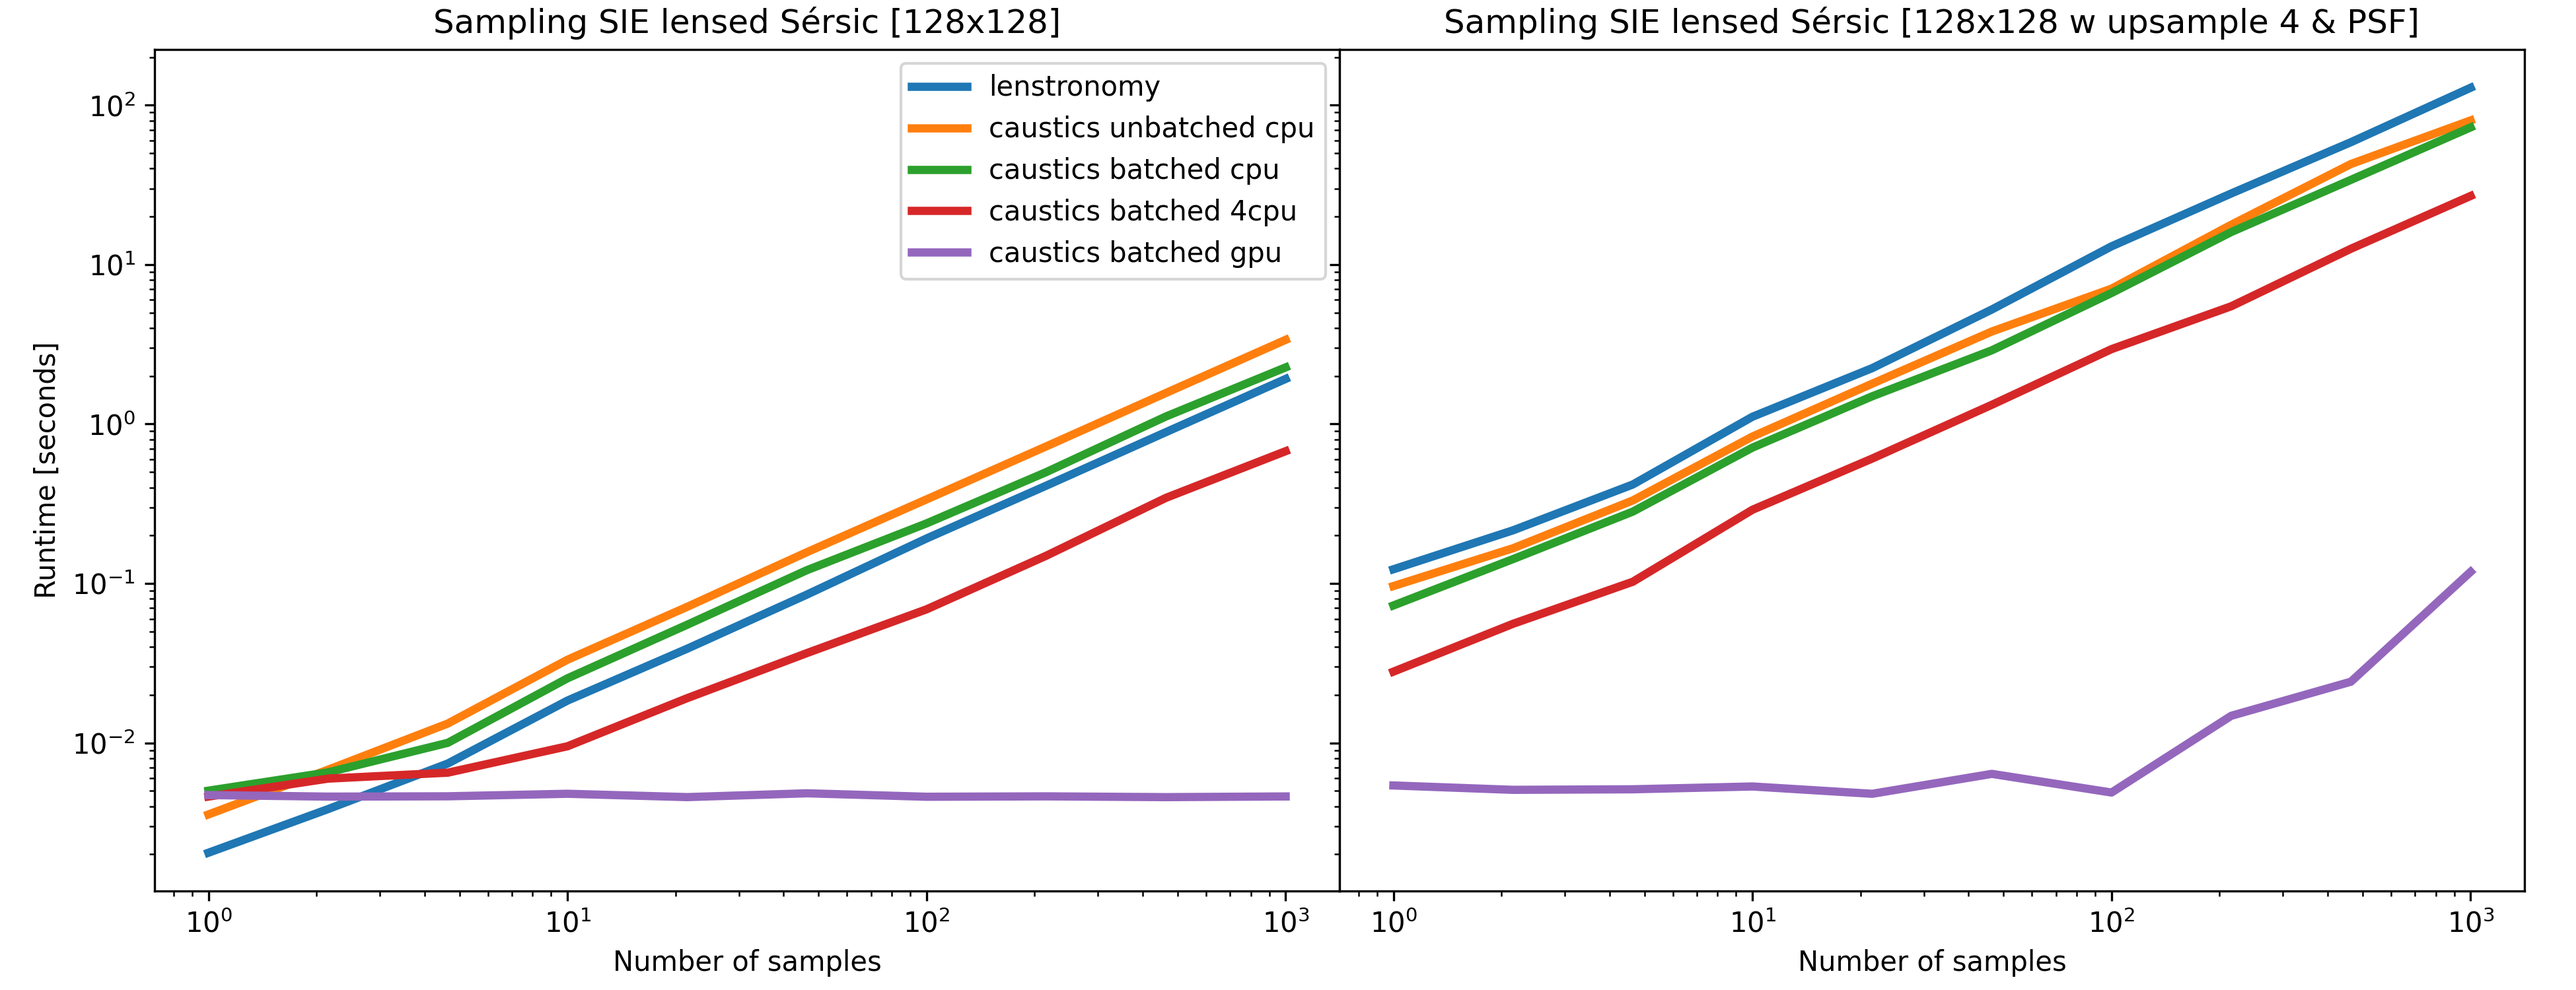
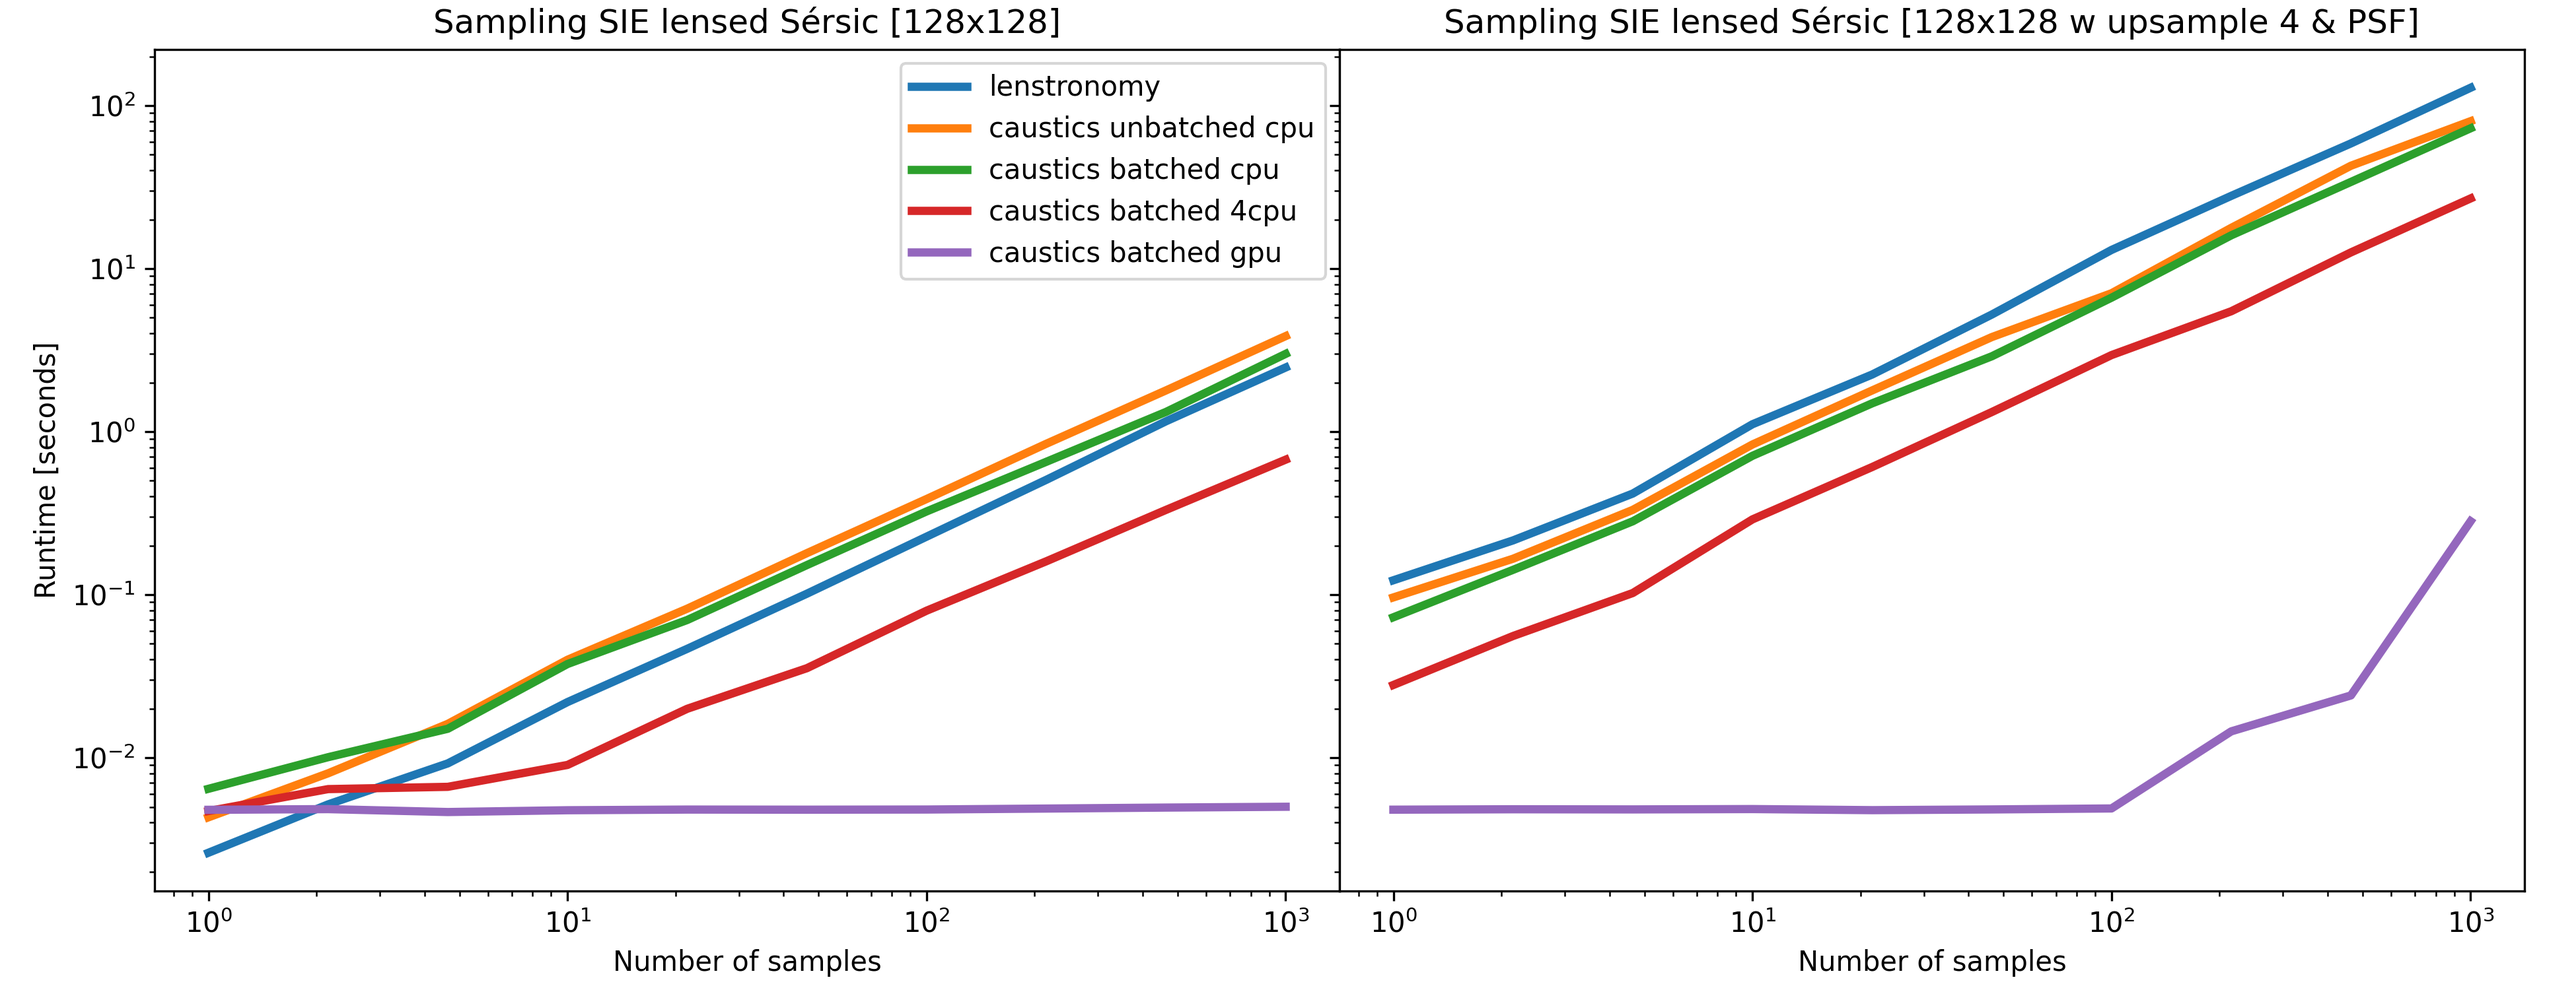
update hezaveh ref, runtime fig

diff --git a/paper.md b/paper.md
@@ -157,7 +157,7 @@ effective convergence, obtained with the trace of the Jacobian.
 With these building blocks in place, one may construct fast and accurate
 simulators used to produce training sets for machine learning models or for
 inference on real-world systems. Neural networks have become a widespread tool
-for amortized inference of gravitational lensing parameter [@Hezaveh2016] or in
+for amortized inference of gravitational lensing parameter [@Hezaveh2017] or in
 the detection of gravitational lenses [@Petrillo2017; @Huang2021], but they
 require large and accurate training sets which can be created quickly with
 `caustics`. A demonstration of such a simulator is given in \autoref{fig:sample}
@@ -198,16 +198,17 @@ performance in such scenarios.
 We compare the performance with that of Lenstronomy as our baseline. The most
 direct comparison between the two codes can be observed by comparing the
 `Lenstronomy` line with the "caustics unbatched cpu" line. `Lenstronomy` is
-written using the `numba` [@numba] package which compiles python code. The left
-plot shows that `caustics` suffers from a significant overhead compared with
-`Lenstronomy`, which is nearly twice as fast as the "caustics unbatched cpu"
-line. This occurs because `caustics` has some Python logic to dispatch the
-parameters to their appropriate modules in its graph. Despite this, `caustics`
-showcases a strong performance when using the batched GPU setting, especially in
-the more realstic scenario with extra computations in the simulator including 4x
-oversampling of the raytracing and the PSF convolution.
+written using the `numba` [@numba] package which compiles python code into lower
+level C code. The left plot shows that `caustics` suffers from a significant
+overhead compared with `Lenstronomy`, which is nearly twice as fast as the
+"caustics unbatched cpu" line. This occurs because `caustics` has some Python
+logic to dispatch the parameters to their appropriate modules in its graph.
+Despite this, `caustics` showcases a strong performance when using the batched
+GPU setting, especially in the more realistic scenario with extra computations
+in the simulator including 4x oversampling of the raytracing and the PSF
+convolution.
 
-![Runtime comparisons for a simple lensing setup. We compare the amount of time taken (y-axis) to generate a certain number of lensing realizations (x-axis) where a Sérsic model is lensed by an SIE mass distribution. For CPU calculations we use `Intel Gold 6148 Skylake` and for the GPU we use a `NVIDIA V100`. On the left, the lensing system is sampled directly with 128 pixel resolution. On the right, a more realistic simulation includes upsampled pixels and PSF convolution. From the two tests we see varying performance enhancements from compiled, unbatched, batched, multi-threaded, and GPU processing setups.\label{fig:runtime}](media/runtime_comparison_img.png)
+![Runtime comparisons for a simple lensing setup. We compare the amount of time taken (y-axis) to generate a certain number of lensing realizations (x-axis) where a Sérsic model is lensed by an SIE mass distribution. For CPU calculations we use `Intel Gold 6148 Skylake` and for the GPU we use a `NVIDIA V100`, all tests were done at 64 bit precision. On the left, the lensing system is sampled directly with 128 pixel resolution. On the right, a more realistic simulation includes upsampled pixels and PSF convolution. From the two tests we see varying performance enhancements from compiled, unbatched, batched, multi-threaded, and GPU processing setups.\label{fig:runtime}](media/runtime_comparison_img.png)
 
 Comparing the "caustics unbatched cpu" and "caustics batched cpu" lines we see
 that batching can provide more efficient use of the same, single CPU,
